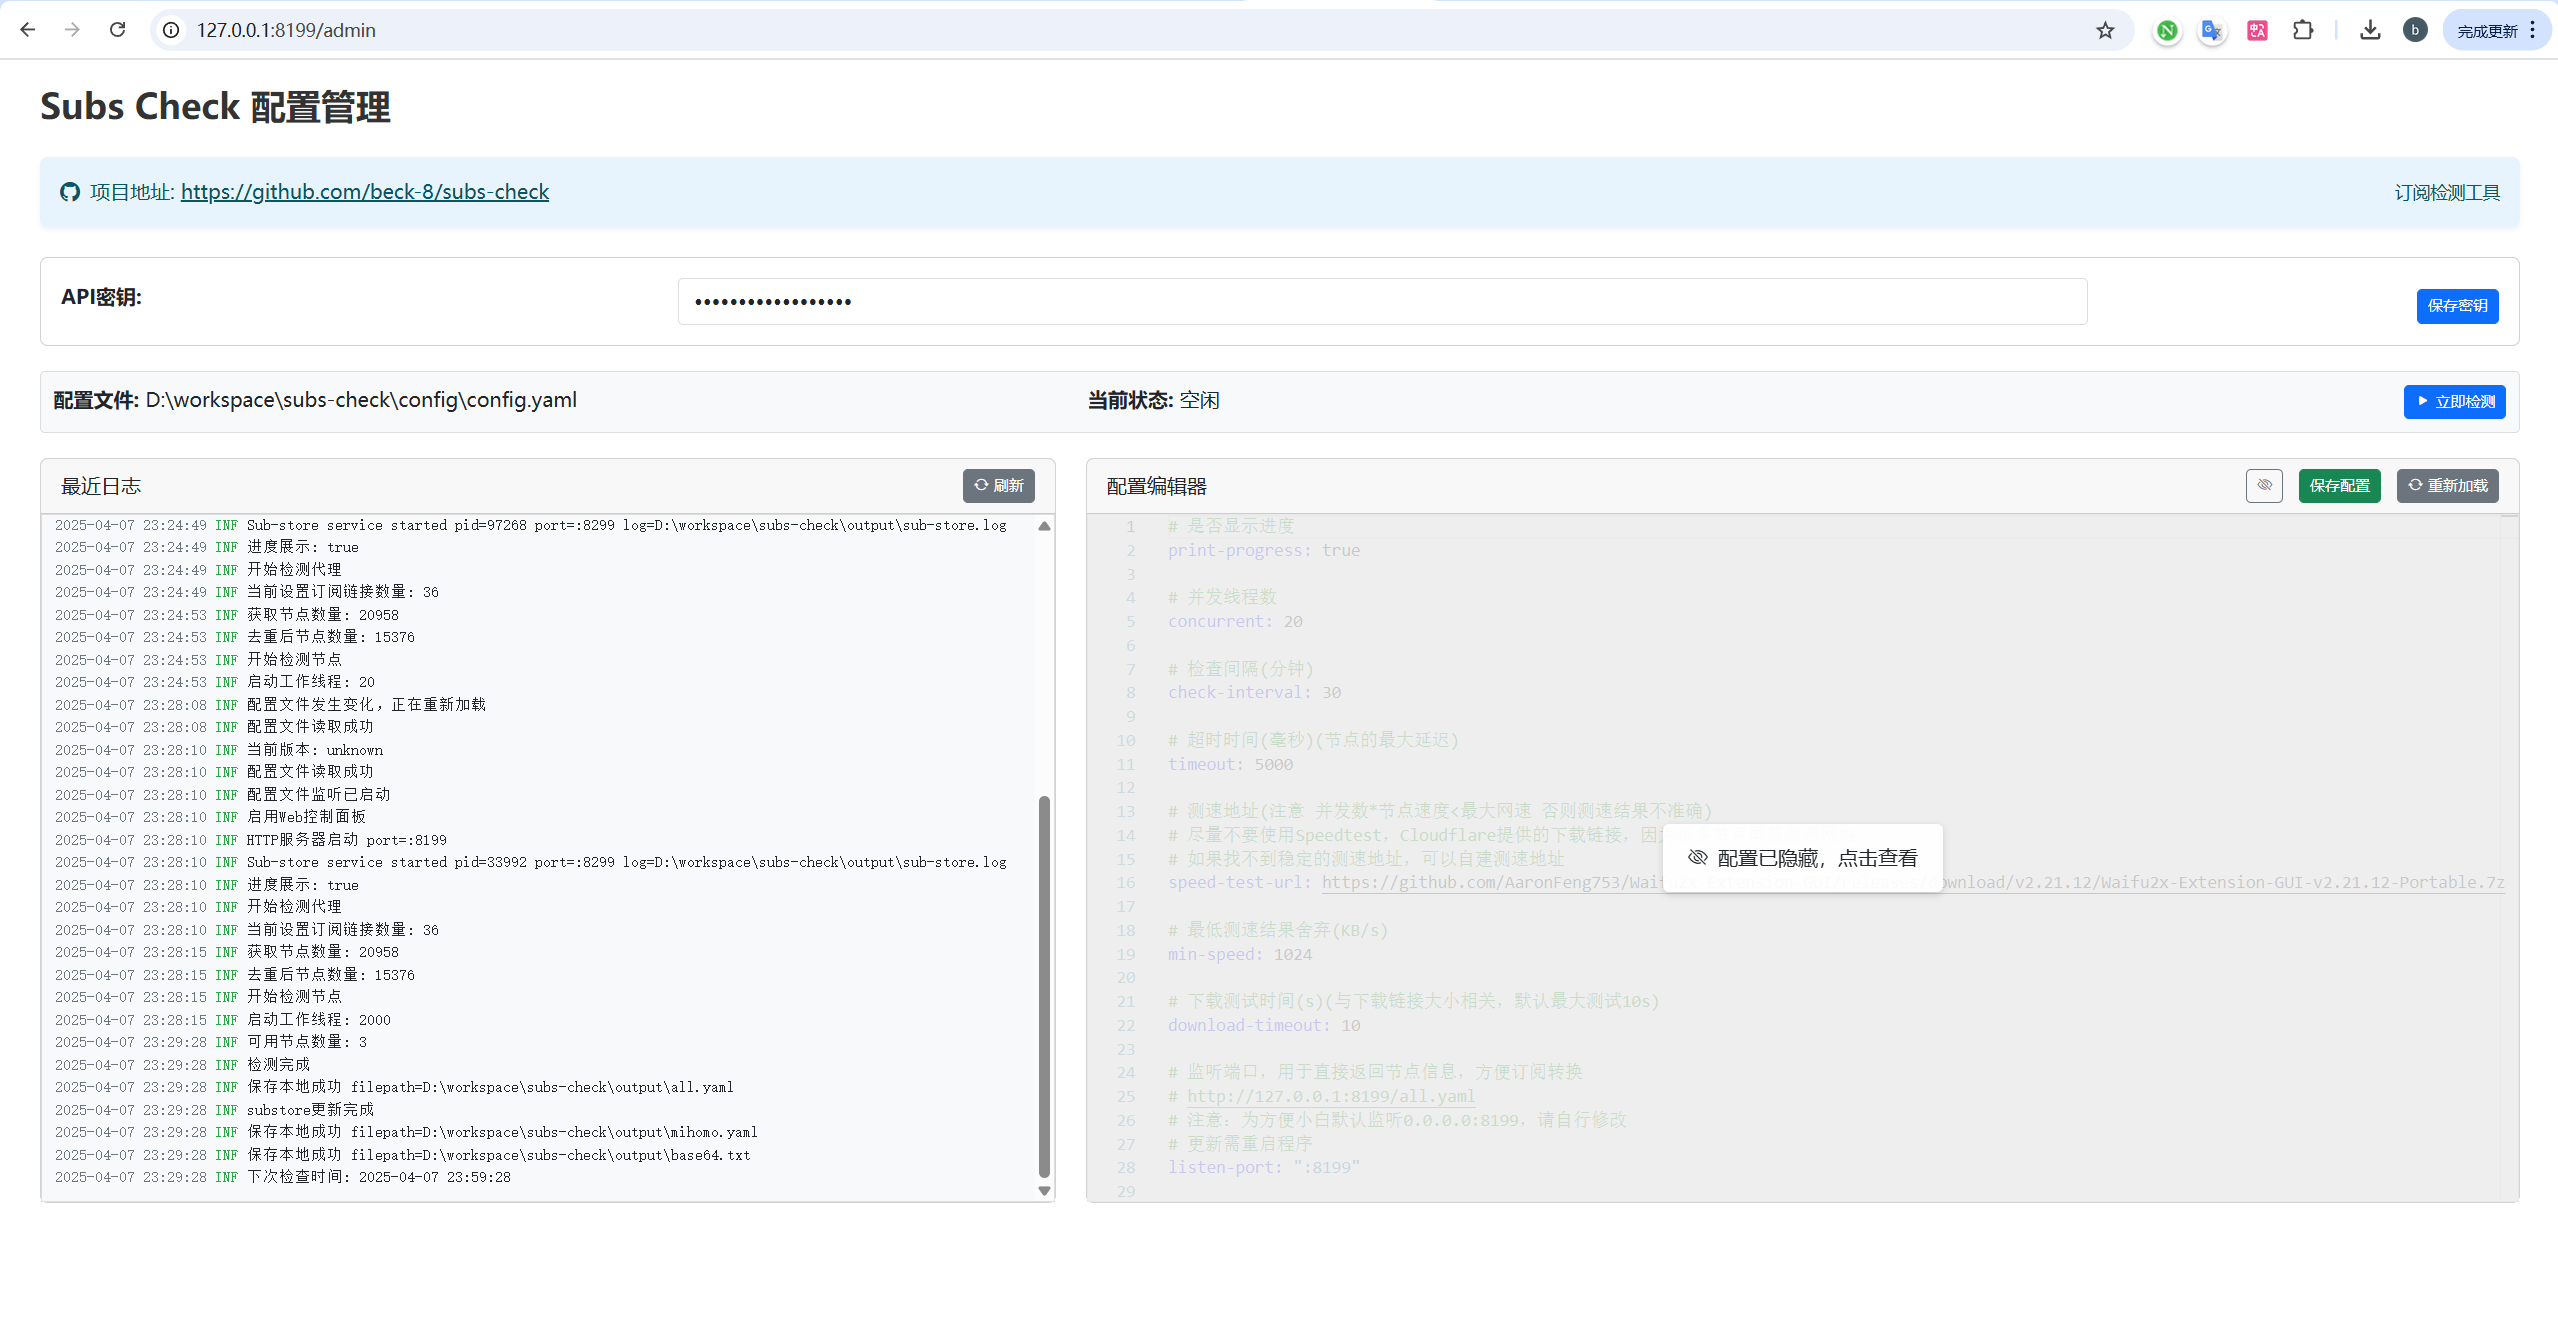
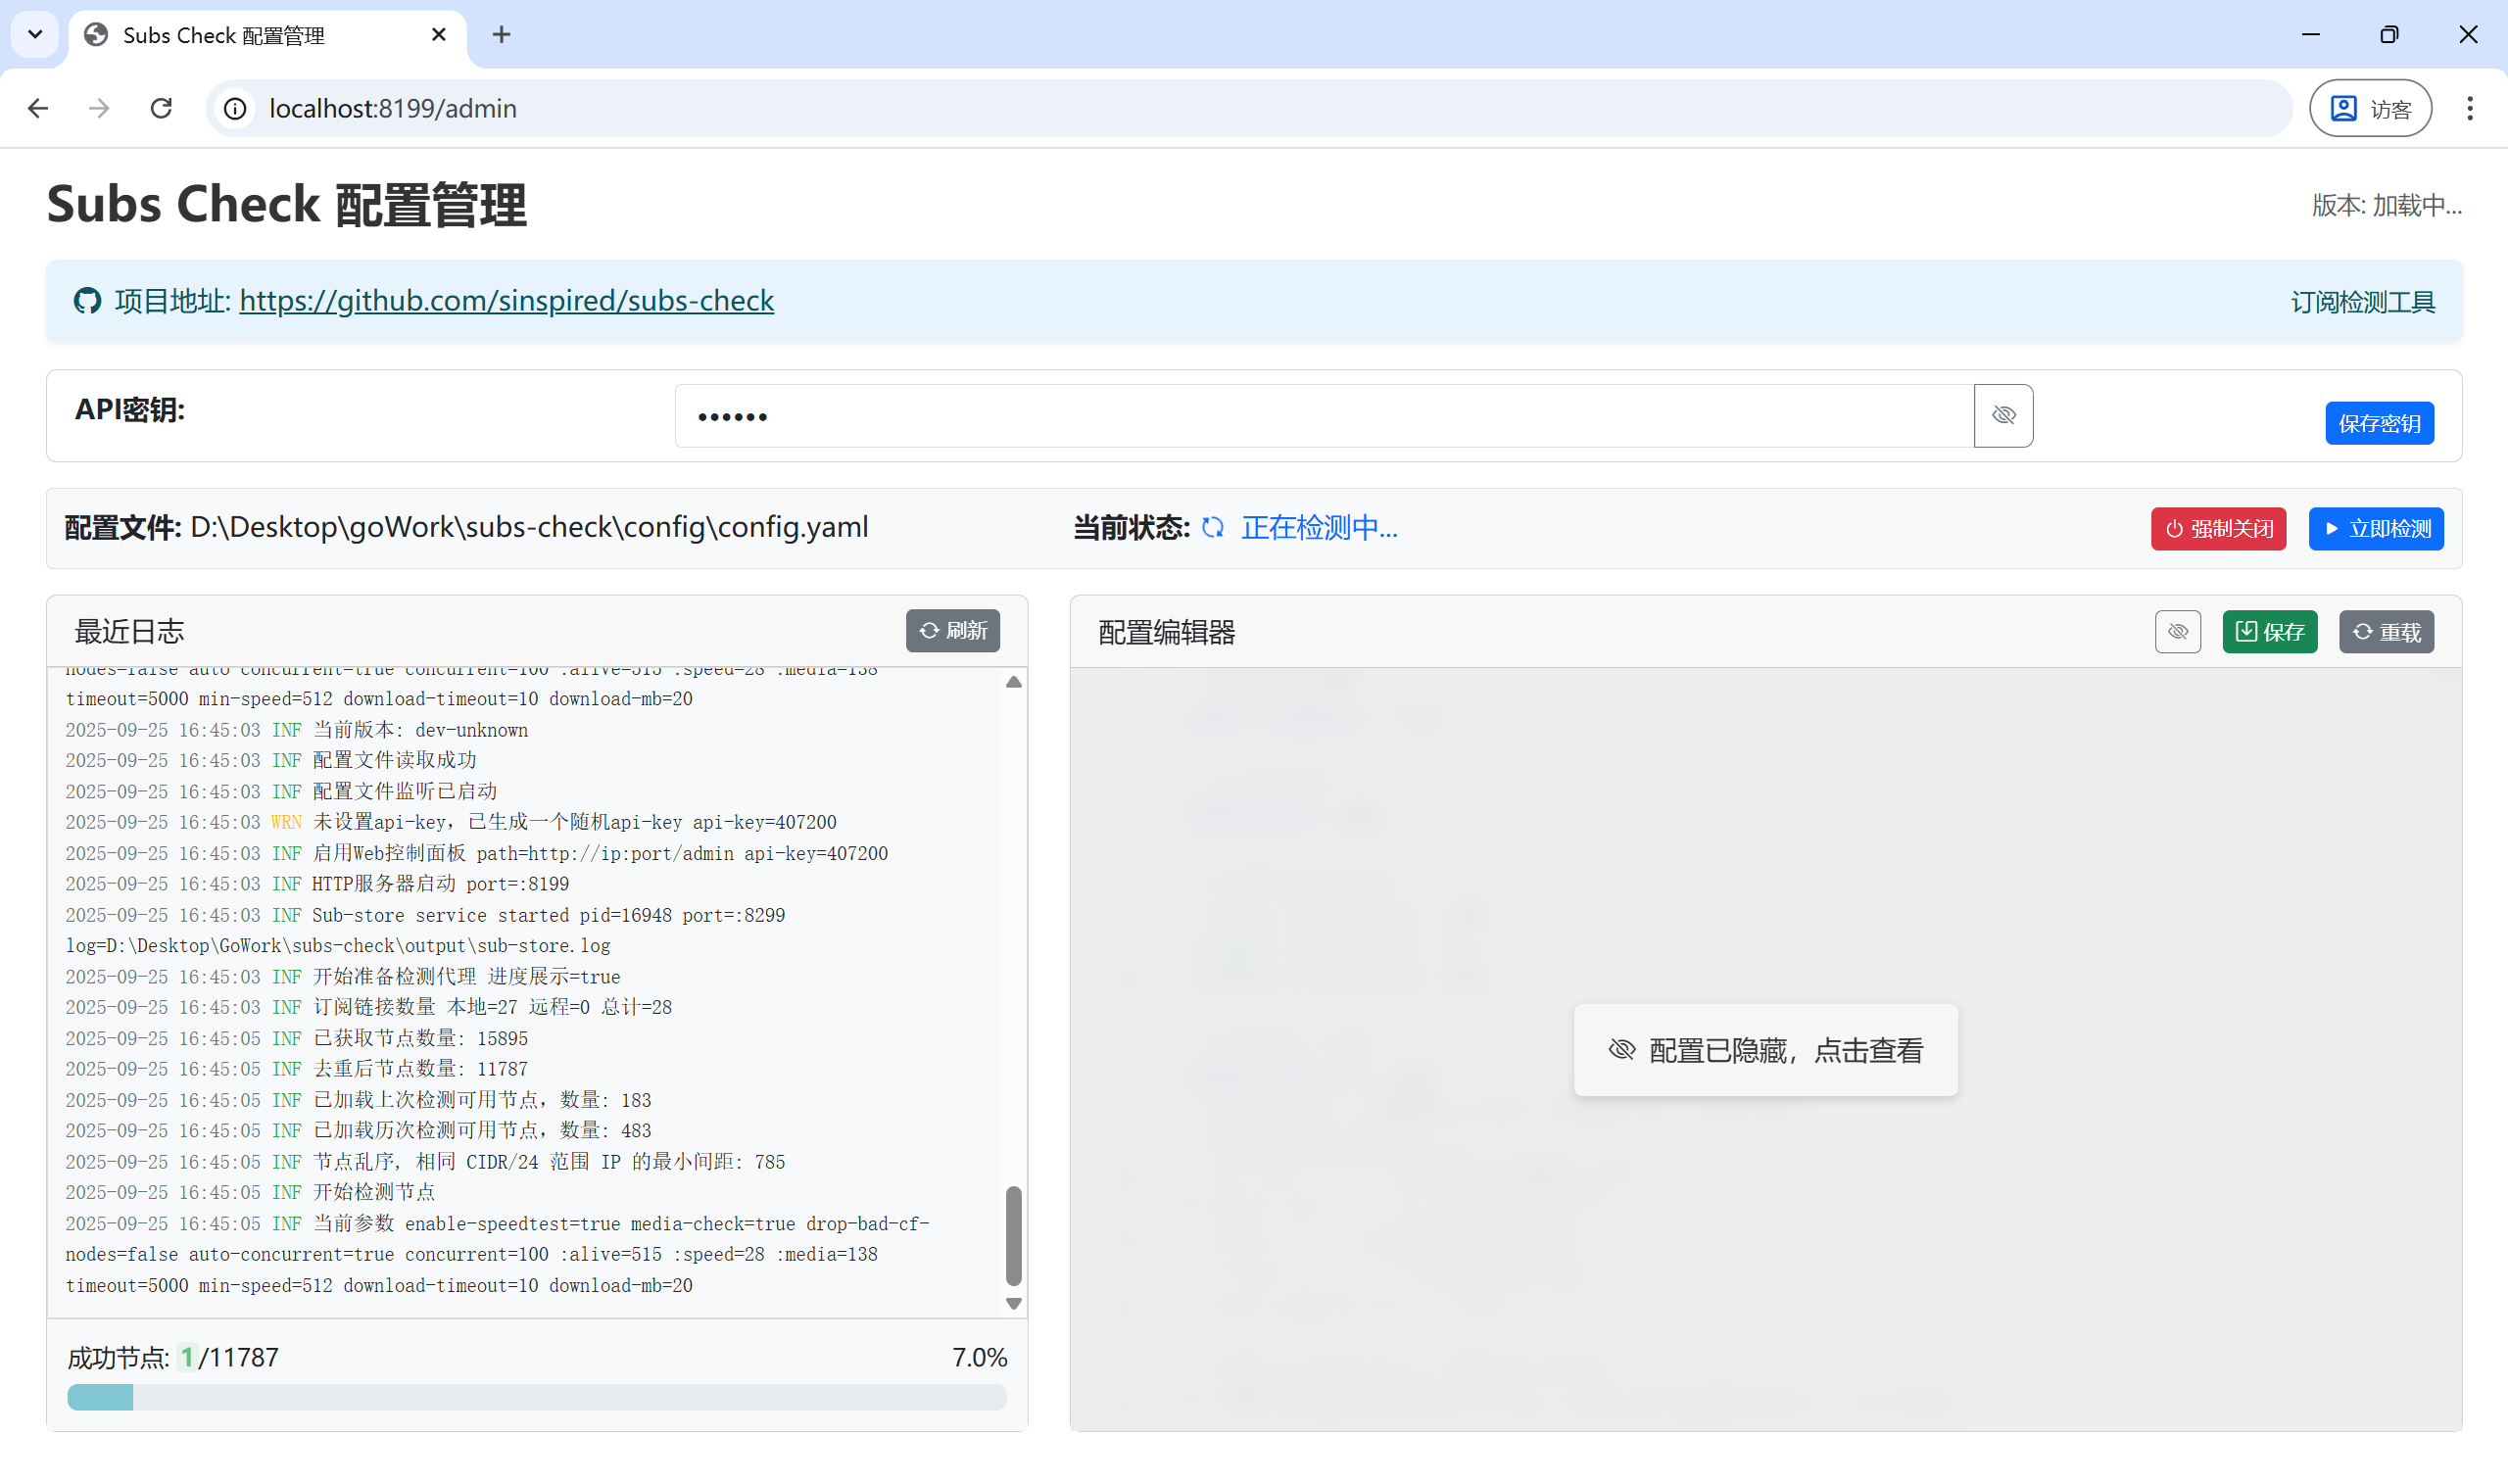
chore(CI): 发布docker镜像

diff --git a/app/templates/admin.html b/app/templates/admin.html
@@ -251,7 +251,7 @@
         <div class="alert alert-info mb-3 d-flex justify-content-between align-items-center">
             <div>
                 <i class="bi bi-github me-2"></i>项目地址: 
-                <a href="https://github.com/beck-8/subs-check" target="_blank" class="text-break">https://github.com/beck-8/subs-check</a>
+                <a href="https://github.com/sinspired/subs-check" target="_blank" class="text-break">https://github.com/sinspired/subs-check</a>
             </div>
             <div class="d-none d-md-block">
                 <small>订阅检测工具</small>

diff --git a/app/app.go b/app/app.go
@@ -11,12 +11,12 @@ import (
 	"sync/atomic"
 	"time"
 
-	"github.com/beck-8/subs-check/app/monitor"
-	"github.com/beck-8/subs-check/assets"
-	"github.com/beck-8/subs-check/check"
-	"github.com/beck-8/subs-check/config"
-	"github.com/beck-8/subs-check/save"
-	"github.com/beck-8/subs-check/utils"
+	"github.com/sinspired/subs-check/app/monitor"
+	"github.com/sinspired/subs-check/assets"
+	"github.com/sinspired/subs-check/check"
+	"github.com/sinspired/subs-check/config"
+	"github.com/sinspired/subs-check/save"
+	"github.com/sinspired/subs-check/utils"
 	"github.com/fsnotify/fsnotify"
 	"github.com/robfig/cron/v3"
 )

diff --git a/check/check.go b/check/check.go
@@ -16,10 +16,10 @@ import (
 	"sync/atomic"
 	"time"
 
-	"github.com/beck-8/subs-check/assets"
-	"github.com/beck-8/subs-check/check/platform"
-	"github.com/beck-8/subs-check/config"
-	proxyutils "github.com/beck-8/subs-check/proxy"
+	"github.com/sinspired/subs-check/assets"
+	"github.com/sinspired/subs-check/check/platform"
+	"github.com/sinspired/subs-check/config"
+	proxyutils "github.com/sinspired/subs-check/proxy"
 	"github.com/juju/ratelimit"
 	"github.com/metacubex/mihomo/adapter"
 	"github.com/metacubex/mihomo/constant"

diff --git a/save/save.go b/save/save.go
@@ -9,10 +9,10 @@ import (
 	"path/filepath"
 	"strings"
 
-	"github.com/beck-8/subs-check/check"
-	"github.com/beck-8/subs-check/config"
-	"github.com/beck-8/subs-check/save/method"
-	"github.com/beck-8/subs-check/utils"
+	"github.com/sinspired/subs-check/check"
+	"github.com/sinspired/subs-check/config"
+	"github.com/sinspired/subs-check/save/method"
+	"github.com/sinspired/subs-check/utils"
 	"gopkg.in/yaml.v3"
 )
 

diff --git a/app/server.go b/app/server.go
@@ -11,9 +11,9 @@ import (
 	"strings"
 	"time"
 
-	"github.com/beck-8/subs-check/check"
-	"github.com/beck-8/subs-check/config"
-	"github.com/beck-8/subs-check/save/method"
+	"github.com/sinspired/subs-check/check"
+	"github.com/sinspired/subs-check/config"
+	"github.com/sinspired/subs-check/save/method"
 	"github.com/gin-gonic/gin"
 	"gopkg.in/yaml.v3"
 )

diff --git a/assets/maxmind_db_process.go b/assets/maxmind_db_process.go
@@ -14,9 +14,9 @@ import (
 
 	"encoding/json"
 
-	"github.com/beck-8/subs-check/config"
-	"github.com/beck-8/subs-check/save/method"
-	"github.com/beck-8/subs-check/utils"
+	"github.com/sinspired/subs-check/config"
+	"github.com/sinspired/subs-check/save/method"
+	"github.com/sinspired/subs-check/utils"
 	"github.com/klauspost/compress/zstd"
 	"github.com/oschwald/maxminddb-golang/v2"
 )

diff --git a/init.go b/init.go
@@ -9,7 +9,7 @@ import (
 	"os"
 	"strings"
 
-	"github.com/beck-8/subs-check/app"
+	"github.com/sinspired/subs-check/app"
 	"github.com/lmittmann/tint"
 	mihomoLog "github.com/metacubex/mihomo/log"
 	"gopkg.in/natefinch/lumberjack.v2"
@@ -68,8 +68,8 @@ func init() {
 	fmt.Println("⚠️  重要提示：")
 	fmt.Println("1. 本项目完全开源免费，请勿相信任何收费版本")
 	fmt.Println("2. 本项目仅供学习交流，请勿用于非法用途")
-	fmt.Println("3. 项目地址：https://github.com/beck-8/subs-check")
-	fmt.Println("4. 镜像地址：ghcr.io/beck-8/subs-check:latest")
+	fmt.Println("3. 项目地址：https://github.com/sinspired/subs-check")
+	fmt.Println("4. 镜像地址：ghcr.io/sinspired/subs-check:latest")
 	fmt.Println("==================================================")
 
 	if strings.ToLower(os.Getenv("SUB_CHECK_PPROF")) != "" {

diff --git a/app/config.go b/app/config.go
@@ -7,8 +7,8 @@ import (
 	"path/filepath"
 	"time"
 
-	"github.com/beck-8/subs-check/config"
-	"github.com/beck-8/subs-check/utils"
+	"github.com/sinspired/subs-check/config"
+	"github.com/sinspired/subs-check/utils"
 	"github.com/fsnotify/fsnotify"
 	"gopkg.in/yaml.v3"
 )

diff --git a/assets/sub_run.go b/assets/sub_run.go
@@ -14,8 +14,8 @@ import (
 	"strings"
 	"time"
 
-	"github.com/beck-8/subs-check/config"
-	"github.com/beck-8/subs-check/save/method"
+	"github.com/sinspired/subs-check/config"
+	"github.com/sinspired/subs-check/save/method"
 	"github.com/klauspost/compress/zstd"
 	"github.com/shirou/gopsutil/v4/process"
 	"gopkg.in/natefinch/lumberjack.v2"

diff --git a/proxy/get.go b/proxy/get.go
@@ -14,8 +14,8 @@ import (
 	"sync"
 	"time"
 
-	"github.com/beck-8/subs-check/config"
-	"github.com/beck-8/subs-check/utils"
+	"github.com/sinspired/subs-check/config"
+	"github.com/sinspired/subs-check/utils"
 	"github.com/metacubex/mihomo/common/convert"
 	"github.com/samber/lo"
 	"gopkg.in/yaml.v3"

diff --git a/save/method/local.go b/save/method/local.go
@@ -6,8 +6,8 @@ import (
 	"os"
 	"path/filepath"
 
-	"github.com/beck-8/subs-check/config"
-	"github.com/beck-8/subs-check/utils"
+	"github.com/sinspired/subs-check/config"
+	"github.com/sinspired/subs-check/utils"
 )
 
 const (

diff --git a/proxy/info.go b/proxy/info.go
@@ -10,8 +10,7 @@ import (
 	"os"
 	"strings"
 
-	// "github.com/beck-8/subs-check/config"
-	"github.com/beck-8/subs-check/config"
+	"github.com/sinspired/subs-check/config"
 	"github.com/metacubex/mihomo/common/convert"
 	"github.com/oschwald/maxminddb-golang/v2"
 	"github.com/sinspired/checkip/pkg/ipinfo"